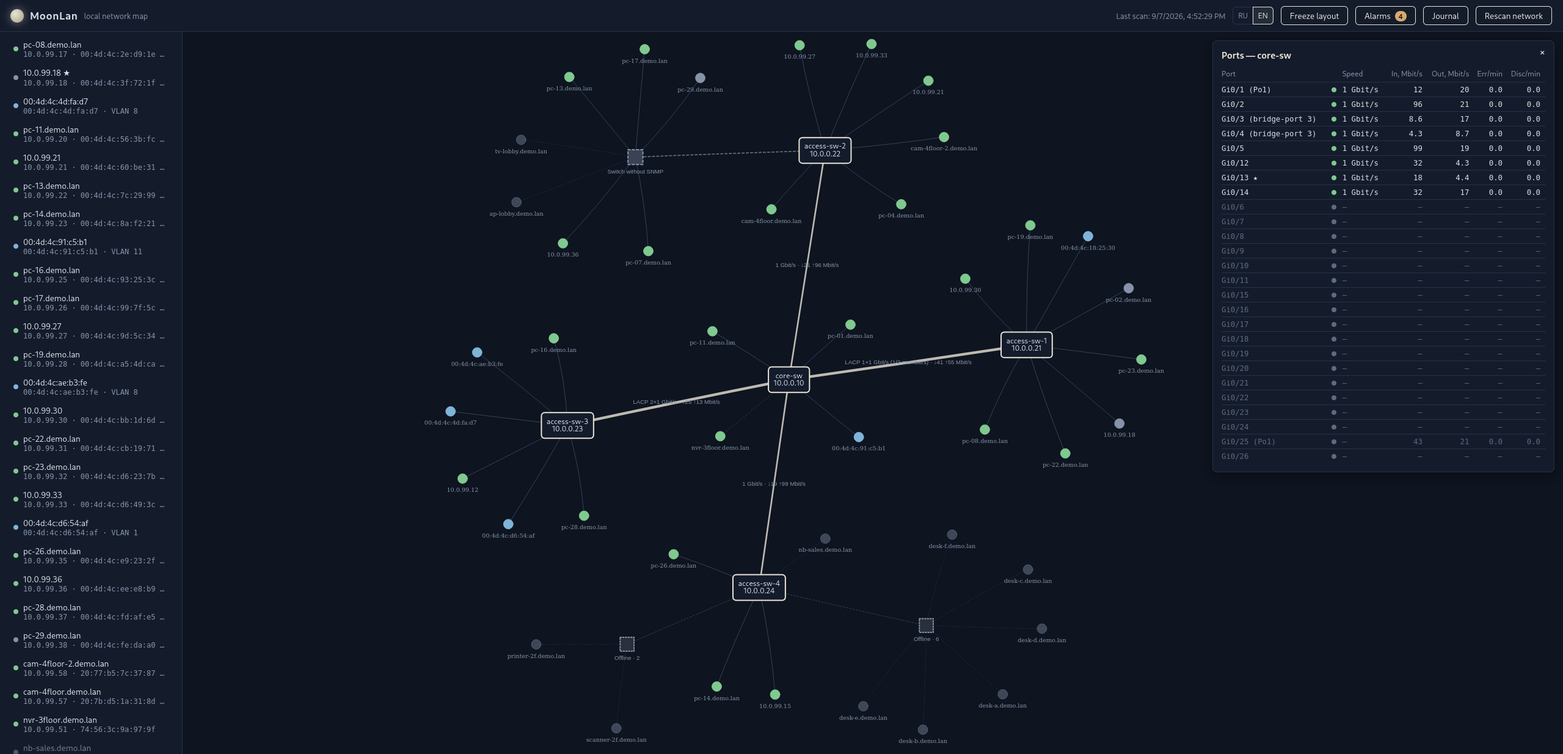
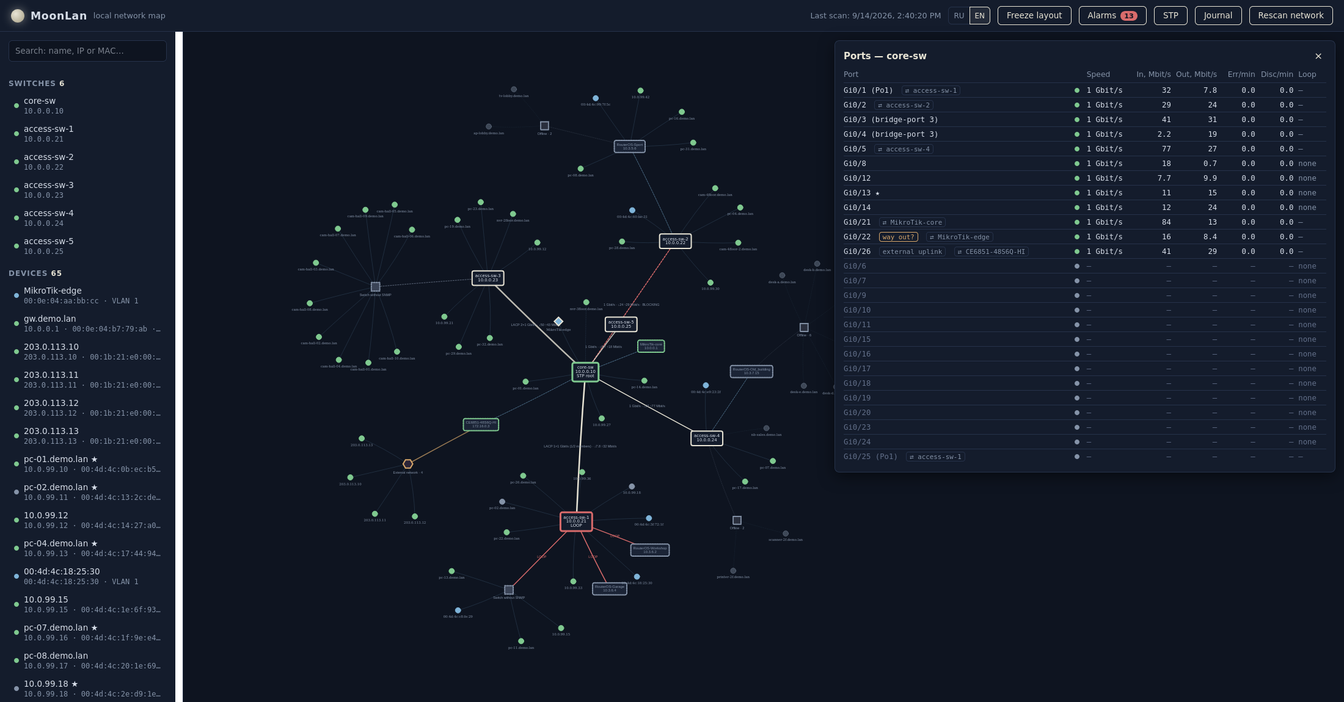
v0.6.9: a device seen on an uplink is not behind it
Version 0.6.9 and the release preparation for the v0.6 branch.

CHANGELOG.md and CHANGELOG_RU.md, one paragraph per version from
v0.5.8 on: the history lived only in a README table and the roadmap,
neither of which says what a release actually changed.

New screenshots, taken on the demo network rather than the production
one — the demo exists for this, and it is the only way to put a
picture of a working map in a public repository a week after clearing
that repository of exactly this kind of data. The old ones predate
v0.6: no STP panel, no Loop column, no LLDP-named nodes.

The two local clones made while rewriting history are ignored.
Committing the mirror would put every purged object straight back.

diff --git a/moonlan/__init__.py b/moonlan/__init__.py
@@ -1,3 +1,3 @@
 """MoonLan — builds a local network map from SNMP data."""
 
-__version__ = "0.6.8"
+__version__ = "0.6.9"

diff --git a/CHANGELOG_RU.md b/CHANGELOG_RU.md
@@ -1,0 +1,151 @@
+# История изменений
+
+Заметные изменения MoonLan, новые сверху. Даты — даты выпуска; каждая
+версия проверялась на той боевой сети, ради которой писалась, прежде
+чем начиналась следующая.
+
+English version — [CHANGELOG.md](CHANGELOG.md).
+
+## v0.6.9 — 14.09.2026
+
+Устройство, увиденное на аплинке, не находится за ним. Коммутатор,
+сообщающий MAC на том кабеле, по которому сам подключён, говорит, где
+устройства **нет**, — а правило размещения читало это наоборот: самый
+глубокий коммутатор в дереве выигрывал любую заявку, и Edge-Core, у
+которого живым остался только собственный аплинк, собрал вокруг себя
+два десятка устройств остальной сети. Теперь первым решает
+направление, вторым — глубина; магистрали корня считаются нисходящими
+(над корнем ничего нет), а устройство, все сведения о котором пришли с
+аплинков, не размещается вовсе и уходит в раздел «Вне карты»:
+подвесить его на чей-нибудь аплинк — значит утверждать ровно то
+единственное место, где его точно нет. У размещения хостов наконец
+появились тесты: правило перенастраивалось трижды без единого теста, и
+каждая правка ломала то, что чинила предыдущая.
+
+## v0.6.8 — 14.09.2026
+
+Опознать модель, прежде чем верить тому, что она сообщает. В SNMPv2c
+агент отвечает на запрос несуществующего объекта **успешным** ответом
+со значением `noSuchObject`, поэтому проба, принимающая «агент
+ответил», проходит на любом живом устройстве: три коммутатора были
+прочитаны по чужой ветке, и о них было написано, что защита от петель
+у них выключена. Теперь ветка считается опознанной, только если
+ответила данными; профили Loop Detection ключуются тем sysObjectID,
+которым модель отвечает на самом деле (приватная ветка изделия D-Link
+лежит не под его собственным идентификатором), а «неизвестно» больше
+не печатается как «выключено». Агрегат с ifIndex, которого нет в
+таблице интерфейсов, отбрасывается вместо фантомного транка;
+коммутатор, который MoonLan опрашивает, больше не поднимает тревогу
+«неучтённый мост» о самом себе; пустой sysName не подписывает узел
+адресом дважды.
+
+Кроме того, диагностические дампы покинули репозиторий.
+`diag --anonymize` переписывает любой отчёт на документационные
+диапазоны (RFC 5737, RFC 7042) по таблице замен, устойчивой в пределах
+запуска, а в `docs/diag_example/` лежит по одному обезличенному
+образцу каждого отчёта.
+
+## v0.6.7 — 11.09.2026
+
+Loop Detection, прочитанный из приватных MIB производителей —
+стандартной для него нет. Профиль описывает семейство моделей: каким
+sysObjectID оно отвечает, где начинается его ветка, каковы суффиксы
+скаляров и колонок по портам и какое сырое значение означает «петли
+нет». Встроены D-Link DGS-1210-26 Rev.F1, DES-1210-28/ME и DES-3526;
+свои добавляются в `config.yaml`, не трогая код. Опрос идёт в цикле
+счётчиков, а не в десятиминутном скане: петля — инцидент. Достоверно
+наблюдалось только значение «петли нет», поэтому правило перевёрнуто:
+всё остальное поднимает `loop_detected` (critical) с сырым значением в
+тексте, и первая же настоящая петля сама себя задокументирует. Модель,
+которая ничего не сообщает, так и показывается — но никогда как «петель
+нет».
+
+## v0.6.6 — 11.09.2026
+
+Один невозможный OID останавливал счётчики всей сети. Синтетический
+агрегат несёт отрицательный ifIndex, pyasn1 отказывается собирать по
+нему запрос, и исключение уходило наружу через `asyncio.gather` — все
+колонки на всех пяти коммутаторах были пусты столько, сколько работал
+сервис. Исправлено в четыре слоя; офлайн-группы теперь подключаются к
+мосту своего порта, а не висят рядом с ним.
+
+## v0.6.5 — 10.09.2026
+
+Walk, переставший отвечать на середине, продолжается с последнего
+полученного OID, до `snmp.retries_on_break` раз: на коммутаторе с 36
+интерфейсами гигабитные порты в конце таблицы пропадали три опроса
+подряд. Частичный ответ так и называется частичным, а не «NO ANSWER»;
+порты, которых не хватило после доборов, дочитываются поштучными GET
+из 32-битной колонки; колонка пакетов из сплошных нулей рядом с
+терабайтами октетов считается незаполненной. Дефолты SNMP подняты до
+`timeout: 5`, `retries: 2` — заниженный таймаут дальше по цепочке
+выглядит не как таймаут, а как отсутствие поддержки OID.
+
+## v0.6.4 — 10.09.2026
+
+Честные счётчики. `bytes()` на целочисленном типе pysnmp выделяет
+нулевой буфер длиной в само число — так `diag --walk` запросил 1,49 ГБ
+на счётчике октетов и был убит. Колонка, на которую агент не ответил,
+показывается как «—», а не 0.0, и не поднимает тревог ни в одну
+сторону; каждое направление откатывается на свой 32-битный счётчик
+независимо. «Тихое» устройство остаётся на своём порту, а не уезжает
+на транк корня; «Внешняя сеть» висит за мостом провайдера; порт
+собственного маршрутизатора перестал выглядеть выходом наружу.
+
+## v0.6.3 — 10.09.2026
+
+Читаемые ссылки и адреса в карточках, адрес, которым оператор реально
+пользуется, под именем маршрутизатора, подсказка о `uplink_ports` на
+порту, похожем на выход наружу, и возможность безопасно запустить
+второй экземпляр рядом с работающим сервисом (`MOONLAN_CONFIG`, SQLite
+в режиме WAL).
+
+## v0.6.2 — 10.09.2026
+
+Одно устройство — один узел: мост, чей MAC есть и в таблице MAC его
+собственного порта, рисуется один раз, с именем и адресом, а не
+дважды. Маршрутизаторы названы и нарисованы ромбами, подписи портов
+показываются только там, где это подписи, а не шаблон прошивки, панель
+портов держит шапку и колонку порта на виду, а `uplink_ports`
+собирает всё, что за стыком с провайдером, в один узел.
+
+## v0.6.1 — 09.09.2026
+
+Исправления по итогам боевой сети, начиная с падения, из-за которого
+она осталась вообще без карты, когда на одном порту оказалось
+несколько мостов. Соседа считают мостом, только если он сам так о себе
+сказал; занятый порт доступа больше не называется «пересылкой LLDP»;
+соседи по LLDP размещаются по достоверности сведений, а не по первому
+совпавшему ключу; 38 строк одного MikroTik схлопываются в одно
+устройство; упавший скан говорит об этом в шапке, а не показывает
+пустую карту.
+
+## v0.6.0 — 09.09.2026
+
+LLDP: соседи, capabilities и управляющие адреса, связи, подтверждённые
+по LLDP, с признаком источника у каждой (`fdb` / `lldp` / `both`), и
+мосты, которых никто не опрашивает, — с именами на карте и тревогой
+`unmanaged_bridge_detected`, когда такой появляется за портом доступа.
+
+Честный статус STP, ради которого всё это и затевалось. Коммутатор с
+выключенным остовным деревом всё равно отвечает на все объекты
+`dot1dStp*` — приоритет 0, стоимость 0, корнем называет себя, — и если
+верить этим числам, пять выключенных коммутаторов превращаются в пять
+корневых мостов. Корень, стоимость и корневой порт теперь используются
+только для коммутатора, у которого дерево доказуемо работает; всё
+остальное читается как «не работает», с сохранённой причиной для
+`diag --stp`.
+
+Плюс `port_flapping`, замечающий линк, моргнувший между двумя опросами
+счётчиков, — по `ifLastChange` вместе с `ifOperStatus`, — и
+`diag --walk` для исследования приватных MIB.
+
+## v0.5.8 — 07.09.2026
+
+Подтверждение MAC, прежде чем новый адрес станет устройством,
+обнаружение повреждения кадров (из-за плохого кабеля коммутатор учит
+адреса, отличающиеся от настоящего на несколько бит) и размещение
+устройств, видимых только через магистрали.
+
+Более ранние версии перечислены в таблице дорожной карты README и в
+[docs/ROADMAP.md](docs/ROADMAP.md).

diff --git a/CHANGELOG.md b/CHANGELOG.md
@@ -1,0 +1,150 @@
+# Changelog
+
+All notable changes to MoonLan, newest first. Dates are release dates;
+every version was verified on the production network it was written
+for before the next one started.
+
+Русская версия — [CHANGELOG_RU.md](CHANGELOG_RU.md).
+
+## v0.6.9 — 2026-09-14
+
+A device seen on an uplink is not behind it. The switch that reports a
+MAC address on the cable it came in on is telling you where the device
+is **not**, and the placement rule had been reading it the other way:
+the deepest switch in the tree won every claim it could make, so an
+Edge-Core whose only live port was its own uplink collected twenty
+devices belonging to the rest of the network. Direction now decides
+first and depth second, the root's trunks count as pointing down
+(nothing is above the root), and a device whose every sighting was on
+an uplink is not placed at all — it goes to "Not on map", because
+hanging it off somebody's uplink would be a statement about the one
+place it cannot be. Host placement finally has tests: the rule had
+been reordered three times without one, each fix breaking the case the
+previous fix had made work.
+
+## v0.6.8 — 2026-09-14
+
+Identify the model before believing what it reports. In SNMPv2c an
+agent answers a request for an object it does not implement with a
+*successful* reply carrying `noSuchObject`, so a probe that accepts
+"the agent replied" succeeds on every device alive — three switches
+were read off a branch belonging to another vendor and then reported
+as having their loop protection switched off. A branch now counts as
+identified only when it answers with data, the loop-detection profiles
+are keyed by the sysObjectID each model actually answers with (a
+D-Link product's private branch is not under its own identifier), and
+"unknown" is no longer printed as "switched off". An aggregate ifIndex
+that is not in the interface table is dropped instead of drawing a
+trunk nobody has, a switch MoonLan polls no longer raises
+"unmanaged bridge" about itself, and an empty `sysName` stops
+captioning a node with its address twice.
+
+Also: the diagnostic dumps left the repository. `diag --anonymize`
+rewrites any report through documentation ranges (RFC 5737, RFC 7042)
+with a substitution table that stays consistent for the run, and
+`docs/diag_example/` holds one anonymised sample of each report.
+
+## v0.6.7 — 2026-09-11
+
+Loop Detection, read from the vendors' private MIBs — there is no
+standard one. Profiles describe a model family: which sysObjectID it
+answers with, where its branch starts, the suffixes of the scalars and
+the per-port columns, and which raw status means "no loop". Built in
+for the D-Link DGS-1210-26 Rev.F1, DES-1210-28/ME and DES-3526; more
+can be added in `config.yaml` without touching code. Polled on the
+counters cycle rather than the ten-minute scan, because a loop is an
+incident. Only the "no loop" value has ever been observed on this
+hardware, so the rule is inverted: anything else raises
+`loop_detected` (critical) with the raw value in the text, and the
+first real loop documents itself. A model that reports nothing is
+shown as reporting nothing — never as "no loops".
+
+## v0.6.6 — 2026-09-11
+
+One impossible OID stopped the counters for the whole network. A
+synthetic aggregate carries a negative ifIndex, pyasn1 refuses to
+build a request for it, and the exception left through
+`asyncio.gather` — every column on all five switches was empty for as
+long as the service ran. Fixed in four layers, and offline groups now
+hang off the bridge on their port instead of beside it.
+
+## v0.6.5 — 2026-09-10
+
+A walk that stops answering halfway is picked back up from the last
+OID that arrived, up to `snmp.retries_on_break` times: on a switch
+with 36 interfaces the gigabit uplinks at the end of the table went
+missing in three polls running. A partial answer is reported as a
+partial answer rather than "NO ANSWER", ports a resumed walk still
+missed are fetched one GET at a time from the 32-bit counter, and a
+packet column of zeros beside terabytes of octets is read as unfilled.
+SNMP defaults raised to `timeout: 5`, `retries: 2` — a mean timeout
+does not look like a timeout further down the line, it looks like a
+switch that does not implement the OID.
+
+## v0.6.4 — 2026-09-10
+
+Honest counters. `bytes()` on a pysnmp integer allocates a zero buffer
+as long as the number, which is how `diag --walk` asked for 1.49 GB on
+an octet counter and was killed. A counter column the agent never
+answered reads "—", not 0.0, and raises no alarm in either direction;
+each direction falls back to its 32-bit counter on its own. A quiet
+device stays at the port it lives on instead of moving to the core's
+trunk, the external network hangs off the provider's bridge, and our
+own router's port stops looking like a way out of the network.
+
+## v0.6.3 — 2026-09-10
+
+Readable links and addresses in the cards, the address an operator
+actually uses under a router's name, `uplink_ports` announcing itself
+from the port that looks like one, and a second instance that can be
+run safely beside the live service (`MOONLAN_CONFIG`, SQLite in WAL
+mode).
+
+## v0.6.2 — 2026-09-10
+
+One device, one node: a bridge whose MAC is also in the MAC table of
+its own port is drawn once, with its name and address, instead of
+twice. Routers are named and drawn as diamonds, port labels are shown
+only where they are labels rather than a firmware template, the ports
+panel keeps its header and port column in view, and `uplink_ports`
+collects what lies past a provider handover under one node.
+
+## v0.6.1 — 2026-09-09
+
+Fixes from the production network, starting with the crash that left
+it with no map at all when several bridges shared one port. A
+neighbour is treated as a bridge only when it says it is one, a busy
+access port is no longer called "LLDP forwarding", LLDP neighbours are
+placed by evidence rather than by whichever key matched first, 38 rows
+of one MikroTik collapse into one device, and a failed scan says so in
+the header instead of showing an empty map.
+
+## v0.6.0 — 2026-09-09
+
+LLDP: neighbours, capabilities and management addresses, links
+confirmed by LLDP with a source marker on every one (`fdb` / `lldp` /
+`both`), and the bridges nobody polls named on the map with an
+`unmanaged_bridge_detected` alarm when one appears behind an access
+port.
+
+Honest STP status, which is what this whole branch grew out of. A
+switch with spanning tree disabled still answers every `dot1dStp*`
+object — priority 0, cost 0, itself as the root — and reading those at
+face value turns five disabled switches into five root bridges. Root,
+cost and root port are now used only for a switch that demonstrably
+runs a tree; everything else reads "not operating", with the reason
+kept for `diag --stp`.
+
+Also `port_flapping`, which catches a link that bounces between two
+counter polls by reading `ifLastChange` alongside `ifOperStatus`, and
+`diag --walk` for exploring private MIBs.
+
+## v0.5.8 — 2026-09-07
+
+MAC confirmation before a new address becomes a device, frame
+corruption detection (a failing cable makes a switch learn addresses a
+few bits from the real one), and placement of devices visible only
+through trunks.
+
+Earlier versions are summarised in the roadmap table of the README and
+in [docs/ROADMAP.md](docs/ROADMAP.md).

diff --git a/docs/ROADMAP.md b/docs/ROADMAP.md
@@ -24,6 +24,7 @@
 - [x] **v0.6.6** GET по синтетическому (отрицательному) ifIndex больше не роняет цикл счётчиков всей сети: `expected` только из реальных интерфейсов, `_get`/`_walk` не выпускают исключение наружу, `asyncio.gather(return_exceptions=True)` в скане и цикле счётчиков; офлайн-группы подключаются к мосту или псевдо-коммутатору своего порта, а не к коммутатору
 - [x] **v0.6.7** Loop Detection по приватным MIB: профили моделей по `sysObjectID` (встроены DGS-1210-26 Rev.F1, DES-1210-28/ME и DES-3526, свои добавляются в `loop_detection.profiles`); опрос в цикле счётчиков, а не в скане; тревоги `loop_detected` (critical, сырое значение статуса в тексте) и `loop_detection_disabled` (info); правило «норма известна, всё остальное — петля»; модель без профиля честно показывается как «не сообщает по SNMP», а не как «петель нет»; колонка «Петля» в панели портов, красное ребро и обводка узла на карте, `diag --loop`
 - [x] **v0.6.8** Опознание модели до чтения её данных: `_get` возвращает `None` на `noSuchObject`/`noSuchInstance`/`endOfMibView` (в SNMPv2c несуществующий объект приходит успешным ответом, из-за чего проба ветки удавалась на любом устройстве и трём коммутаторам приписывалось «LBD выключен»); профили Loop Detection ключуются наблюдёнными `sysObjectID`, а не корнями веток; «неизвестно» больше не печатается как «выключено», а пустая таблица не считается расхождением нумерации; агрегат `dot3adAggPortAttachedAggID`, которого нет в таблице интерфейсов (или в который вошёл весь коммутатор), отбрасывается с WARNING вместо фантомного транка и вечной `lag_degraded`; коммутаторы из `switches:` и `routers:` больше не поднимают `unmanaged_bridge_detected` о самих себе; пустой `sysName` не даёт подпись из IP дважды; `docs/diag/` убран из репозитория, добавлены `diag --anonymize` и обезличенные образцы в `docs/diag_example/`
+- [x] **v0.6.9** Устройство, увиденное на аплинке, не находится за ним: в заявке на размещение первым решает направление порта, вторым — глубина (самый глубокий коммутатор перестал забирать всё, что видит со своего аплинка); магистрали корня считаются нисходящими; MAC, все сведения о котором пришли с аплинков, уходит в «Вне карты», а не подвешивается на порт, за которым его точно нет; в карточке написано, почему выбрана именно эта магистраль. Первые тесты на `build_topology`: этот дефект и обе прошлые регрессии правила. Подготовка релиза: `CHANGELOG.md` и `CHANGELOG_RU.md` от v0.5.8, свежие скриншоты с демо-режима
 - [ ] **v0.7** Экспорт схемы в PDF и Draw.io (diagrams.net); импорт дополнительных сведений по MAC-адресам
 - [ ] **v0.7** Контекстное меню узла с диагностическими действиями (ping, traceroute, ссылки на SSH/RDP/веб-интерфейс устройства, пользовательские команды из config) — аналог контекстного меню LanTopoLog
 - [ ] **v0.8** Инвентаризация компьютеров через WMI/WinRM

diff --git a/README_RU.md b/README_RU.md
@@ -16,7 +16,7 @@
 
 *Панель тревог: ошибки портов, отброшенные пакеты и сбои в работе хостов с возможностью перехода к таблице портов коммутатора в один клик.*
 
-## Возможности (v0.6.8)
+## Возможности (v0.6.9)
 
 - Опрос коммутаторов по SNMP v2c: имя устройства, порты, скорости, статусы.
 - Чтение таблиц MAC-адресов (BRIDGE-MIB и Q-BRIDGE-MIB) с каждого
@@ -41,6 +41,14 @@
   в конфигурации), имена — через обратный DNS. IP принадлежит ровно
   одному MAC, поэтому заменённое устройство или переназначенный DHCP
   адрес не остаются второй записью хоста.
+- Честное размещение: устройство, видимое только через магистрали,
+  рисуется на той магистрали, через которую его видно, с пометкой
+  «приблизительно», и в карточке написано, на какой именно и почему.
+  Устройство, увиденное только на **приходящих** портах, не рисуется
+  вовсе: MAC на аплинке говорит, что устройство по ту сторону кабеля,
+  а не за коммутатором, который его увидел, — такое уходит в раздел
+  «Вне карты», а не подвешивается на единственный порт, за которым его
+  точно нет.
 - Устойчивый инвентарь: хост, чей MAC пропал из таблиц коммутаторов,
   остаётся на карте на своём последнем порту в течение
   `host_grace_hours` (по умолчанию 24), приглушённым и с отметкой
@@ -201,6 +209,9 @@
   без реальных коммутаторов.
 - Диагностическая утилита: `python -m moonlan.diag <ip>`.
 
+История версий: [CHANGELOG_RU.md](CHANGELOG_RU.md)
+([English](CHANGELOG.md)).
+
 ## Дорожная карта
 
 | Версия | Функциональность |
@@ -219,6 +230,7 @@
 | v0.6.6 ✓ | Один кривой OID больше не останавливает счётчики; офлайн-группы за своим мостом |
 | v0.6.7 ✓ | Loop Detection по приватным MIB производителей, честное «модель не сообщает» |
 | v0.6.8 ✓ | Опознание модели до чтения; диагностика, которой можно поделиться |
+| v0.6.9 ✓ | Устройство, увиденное на аплинке, не находится за ним; тесты на размещение |
 | v0.7   | Экспорт в PDF и Draw.io, импорт сведений по MAC-адресам |
 | v0.8   | Инвентаризация Windows-компьютеров (WMI/WinRM) |
 

diff --git a/README.md b/README.md
@@ -16,7 +16,7 @@ An open-source alternative to LanTopoLog. MIT license.
 
 *Alarm panel: port errors, discards and host outages with one-click access to the switch port table.*
 
-## Features (v0.6.8)
+## Features (v0.6.9)
 
 - SNMP v2c polling of switches: device name, ports, speeds, statuses.
 - MAC address tables (BRIDGE-MIB and Q-BRIDGE-MIB) from every switch,
@@ -40,6 +40,12 @@ An open-source alternative to LanTopoLog. MIT license.
   host names via reverse DNS. An IP belongs to exactly one MAC, so a
   device replaced or re-addressed by DHCP does not linger as a second
   host record.
+- Honest placement: a device visible only through trunks is drawn on
+  the trunk it was seen through, marked approximate, and the card says
+  which trunk and why. A device seen only on *uplinks* is not drawn at
+  all — a MAC on an uplink says the device is on the far side of that
+  cable, not behind the switch that reported it, so it goes to "Not on
+  map" instead of being hung off the one port it cannot be behind.
 - Stable inventory: a host whose MAC left the switch tables stays on
   the map at its last known port for `host_grace_hours` (default 24),
   greyed out and marked "last seen …", instead of blinking with every
@@ -189,6 +195,9 @@ An open-source alternative to LanTopoLog. MIT license.
 - Demo mode with a virtual network — explore the UI without real switches.
 - SNMP diagnostic tool: `python -m moonlan.diag <ip>`.
 
+Version history: [CHANGELOG.md](CHANGELOG.md)
+([русская версия](CHANGELOG_RU.md)).
+
 ## Roadmap
 
 | Version | Functionality |
@@ -207,6 +216,7 @@ An open-source alternative to LanTopoLog. MIT license.
 | v0.6.6 ✓| One bad OID no longer stops the counters; offline groups behind their bridge |
 | v0.6.7 ✓| Loop Detection from the vendors' private MIBs, honest unsupported state |
 | v0.6.8 ✓| Identify the model before reading it; diagnostics that can be shared |
+| v0.6.9 ✓| A device seen on an uplink is not behind it; host placement under test |
 | v0.7    | Export to PDF and Draw.io, MAC address info import |
 | v0.8    | Windows computer inventory (WMI/WinRM) |
 
